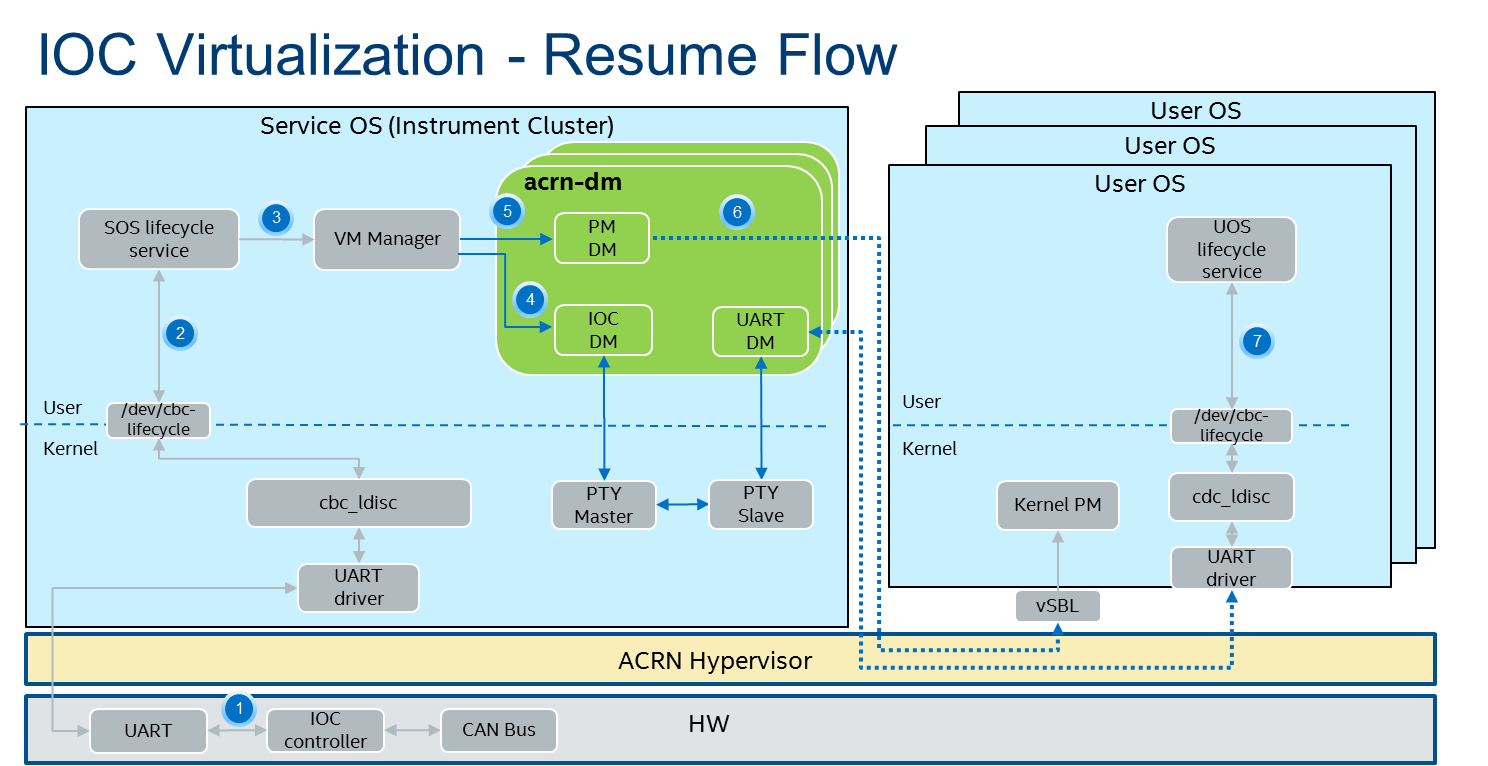
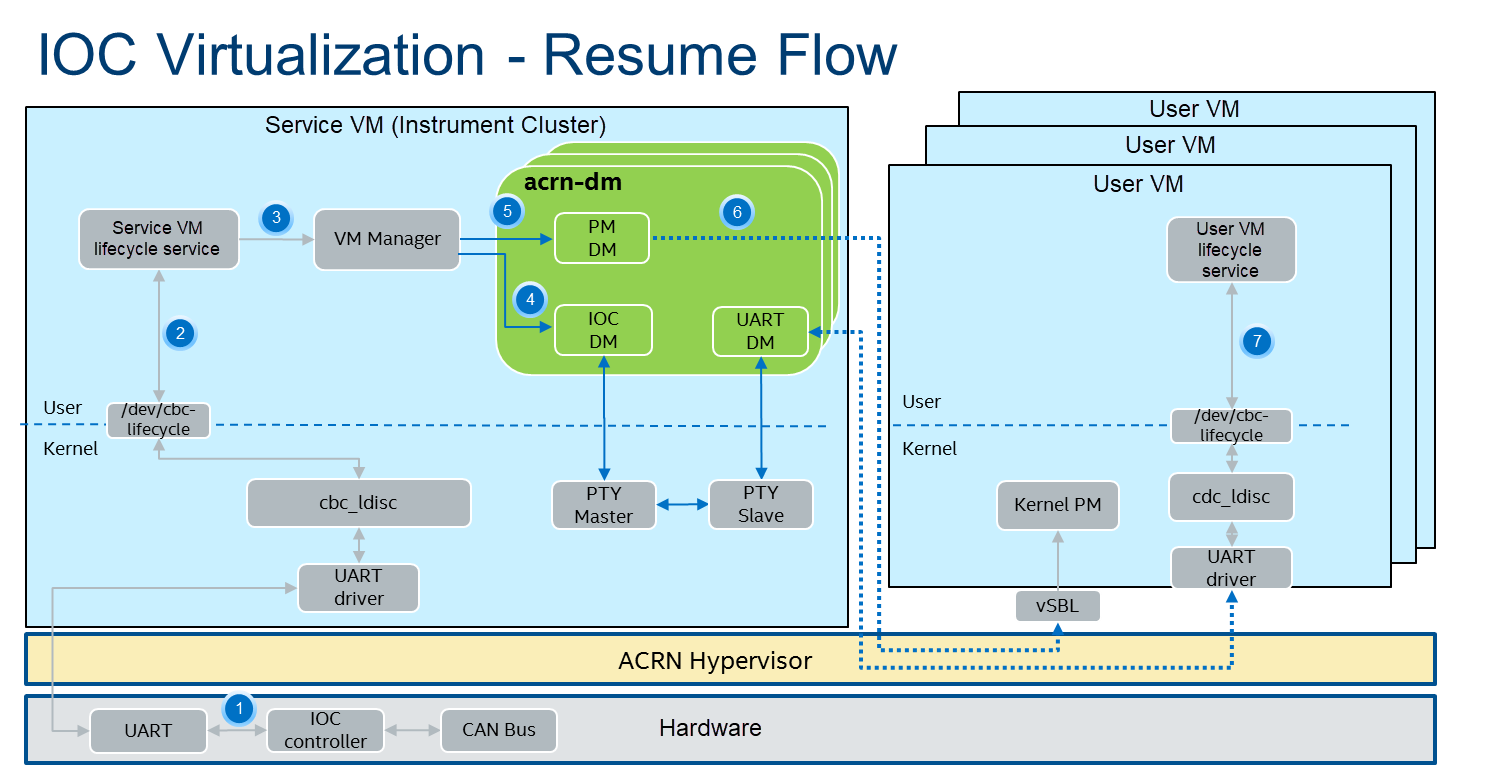
doc: terminology cleanup in IOC virt
- Replace SOS or Service OS with Service VM
- Replace UOS or User OS with User VM
- Clean up some of the grammar

diff --git a/doc/developer-guides/hld/hv-ioc-virt.rst b/doc/developer-guides/hld/hv-ioc-virt.rst
@@ -19,7 +19,7 @@ peripherals.
 The main purpose of IOC virtualization is to transfer data between
 native Carrier Board Communication (CBC) char devices and a virtual
 UART. IOC virtualization is implemented as full virtualization so the
-user OS can directly reuse native CBC driver.
+User VM can directly reuse the native CBC driver.
 
 The IOC Mediator has several virtualization requirements, such as S3/S5
 wakeup reason emulation, CBC link frame packing/unpacking, signal
@@ -72,14 +72,14 @@ different serial connections, such as SPI or UART.
    :align: center
    :name: ioc-cbc-frame-def
 
-   IOC Native - CBC frame definition
+   IOC Native - CBC Frame Definition
 
 The CBC protocol is based on a four-layer system:
 
--  The **Physical layer** is a serial interface with full
+-  The **Physical Layer** is a serial interface with full
    duplex capabilities. A hardware handshake is required. The required
-   bit rate depends on the peripherals connected, e.g. UART, and SPI.
--  The **Link layer** handles the length and payload verification.
+   bit rate depends on the peripherals connected, e.g., UART and SPI.
+-  The **Link Layer** handles the length and payload verification.
 -  The **Address Layer** is used to distinguish between the general data
    transferred. It is placed in front of the underlying Service Layer
    and contains Multiplexer (MUX) and Priority fields.
@@ -100,7 +100,7 @@ devices.
    :align: center
    :name: ioc-software-arch
 
-   IOC Native - Software architecture
+   IOC Native - Software Architecture
 
 Virtualization Architecture
 ---------------------------
@@ -120,7 +120,7 @@ device as its backend.
    :align: center
    :name: ioc-virt-software-arch
 
-   IOC Virtualization - Software architecture
+   IOC Virtualization - Software Architecture
 
 High-Level Design
 =================
@@ -131,7 +131,7 @@ There are five parts in this high-level design:
 * State transfer introduces IOC mediator work states
 * CBC protocol illustrates the CBC data packing/unpacking
 * Power management involves boot/resume/suspend/shutdown flows
-* Emulated CBC commands introduces some commands workflow
+* Emulated CBC commands introduce some commands workflow
 
 IOC mediator has three threads to transfer data between User VM and Service VM. The
 core thread is responsible for data reception, and Tx and Rx threads are
@@ -144,7 +144,7 @@ char devices and UART DM immediately.
    :align: center
    :name: ioc-med-sw-data-flow
 
-   IOC Mediator - Software data flow
+   IOC Mediator - Software Data Flow
 
 -  For Tx direction, the data comes from IOC firmware. IOC mediator
    receives service data from native CBC char devices such as
@@ -161,7 +161,7 @@ char devices and UART DM immediately.
    mediator and will not be transferred to IOC
    firmware.
 -  Currently, IOC mediator only cares about lifecycle, signal, and raw data.
-   Others, e.g. diagnosis, are not used by the IOC mediator.
+   Others, e.g., diagnosis, are not used by the IOC mediator.
 
 State Transfer
 --------------
@@ -201,7 +201,7 @@ virtualization, as shown in the detailed flow below:
    :align: center
    :name: ioc-cbc-frame-usage
 
-   IOC Native - CBC frame usage
+   IOC Native - CBC Frame Usage
 
 In the native architecture, the CBC link frame is unpacked by CBC
 driver. The usage services only get the service data from the CBC char
@@ -213,7 +213,7 @@ priority for the frame, then send data to the UART driver.
    :align: center
    :name: ioc-cbc-prot
 
-   IOC Virtualizaton - CBC protocol virtualization
+   IOC Virtualizaton - CBC Protocol Virtualization
 
 The difference between the native and virtualization architectures is
 that the IOC mediator needs to re-compute the checksum and reset
@@ -240,7 +240,7 @@ Boot Flow
    :align: center
    :name: ioc-virt-boot
 
-   IOC Virtualizaton - Boot flow
+   IOC Virtualizaton - Boot Flow
 
 #. Press ignition button for booting.
 #. Service VM lifecycle service gets a "booting" wakeup reason.
@@ -275,7 +275,7 @@ Suspend & Shutdown Flow
 #. PM DM executes User VM suspend/shutdown request based on ACPI.
 #. VM Manager queries each VM state from PM DM. Suspend request maps
    to a paused state and shutdown request maps to a stop state.
-#. VM Manager collects all VMs state, and reports it to Service VM lifecycle
+#. VM Manager collects all VMs' state, and reports it to Service VM lifecycle
    service.
 #. Service VM lifecycle sends inactive heartbeat to IOC firmware with
    suspend/shutdown SUS_STAT, based on the Service VM's own lifecycle service
@@ -289,9 +289,9 @@ Resume Flow
    :align: center
    :name: ioc-resume
 
-   IOC Virtualizaton - Resume flow
+   IOC Virtualizaton - Resume Flow
 
-The resume reason contains both the ignition button and RTC, and have
+The resume reason contains both the ignition button and RTC, and has
 the same flow blocks.
 
 For ignition resume flow:
@@ -324,7 +324,7 @@ For RTC resume flow
 #. PM DM resumes User VM.
 #. User VM lifecycle service gets the wakeup reason 0x000200, and sends
    initial or active heartbeat. The User VM gets wakeup reason 0x800200
-   after resuming..
+   after resuming.
 
 System Control Data
 -------------------
@@ -338,7 +338,7 @@ control includes Wakeup Reasons, Heartbeat, Boot Selector, Suppress
 Heartbeat Check, and Set Wakeup Timer functions. Details are in this
 table:
 
-.. list-table:: System control SVC values
+.. list-table:: System Control SVC Values
    :header-rows: 1
 
    * - System Control
@@ -354,22 +354,22 @@ table:
    * - 2
      - Heartbeat
      - Heartbeat
-     - Soc to IOC
+     - SoC to IOC
 
    * - 3
      - Boot Selector
      - Boot Selector
-     - Soc to IOC
+     - SoC to IOC
 
    * - 4
      - Suppress Heartbeat Check
      - Suppress Heartbeat Check
-     - Soc to IOC
+     - SoC to IOC
 
    * - 5
      - Set Wakeup Timer
      - Set Wakeup Timer in AIOC firmware
-     - Soc to IOC
+     - SoC to IOC
 
 -  IOC mediator only supports wakeup reasons Heartbeat and Set Wakeup
    Timer.
@@ -413,21 +413,21 @@ Currently the wakeup reason bits are supported by sources shown here:
 
    * - wakeup_button
      - 5
-     - Get from IOC FW, forward to User VM
+     - Get from IOC firmware, forward to User VM
 
    * - RTC wakeup
      - 9
-     - Get from IOC FW, forward to User VM
+     - Get from IOC firmware, forward to User VM
 
-   * - car door wakeup
+   * - Car door wakeup
      - 11
-     - Get from IOC FW, forward to User VM
+     - Get from IOC firmware, forward to User VM
 
    * - SoC wakeup
      - 23
      - Emulation (Depends on User VM's heartbeat message
 
--  CBC_WK_RSN_BTN (bit 5): ignition button.
+-  CBC_WK_RSN_BTN (bit 5): Ignition button.
 -  CBC_WK_RSN_RTC (bit 9): RTC timer.
 -  CBC_WK_RSN_DOR (bit 11): Car door.
 -  CBC_WK_RSN_SOC (bit 23): SoC active/inactive.
@@ -437,7 +437,7 @@ Currently the wakeup reason bits are supported by sources shown here:
    :align: center
    :name: ioc-wakeup-flow
 
-   IOC Mediator - Wakeup reason flow
+   IOC Mediator - Wakeup Reason Flow
 
 Bit 23 is for the SoC wakeup indicator and should not be forwarded
 directly because every VM has a different heartbeat status.
@@ -445,7 +445,7 @@ directly because every VM has a different heartbeat status.
 Heartbeat
 +++++++++
 
-The Heartbeat is used for SOC watchdog, indicating the SOC power
+The Heartbeat is used for SoC watchdog, indicating the SoC power
 reset behavior. Heartbeat needs to be sent every 1000 ms by
 the SoC.
 
@@ -454,7 +454,7 @@ the SoC.
    :align: center
    :name: ioc-heartbeat
 
-   System control - Heartbeat
+   System Control - Heartbeat
 
 Heartbeat frame definition is shown here:
 
@@ -513,7 +513,7 @@ Heartbeat frame definition is shown here:
 RTC
 +++
 
-RTC timer is used to wakeup SoC when the timer is expired. (A use
+RTC timer is used to wake up the SoC when the timer is expired. (A use
 case is for an automatic software upgrade with a specific time.) RTC frame
 definition is as below.
 
@@ -530,16 +530,16 @@ definition is as below.
    :align: center
    :name: ioc-rtc-flow
 
-   IOC Mediator - RTC flow
+   IOC Mediator - RTC Flow
 
 Signal Data
 -----------
 
-Signal channel is an API between the SOC and IOC for
+Signal channel is an API between the SoC and IOC for
 miscellaneous requirements. The process data includes all vehicle bus and
 carrier board data (GPIO, sensors, and so on). It supports
 transportation of single signals and group signals. Each signal consists
-of a signal ID (reference), its value, and its length. IOC and SOC need
+of a signal ID (reference), its value, and its length. IOC and SoC need
 agreement on the definition of signal IDs that can be treated as API
 interface definitions.
 
@@ -550,24 +550,24 @@ IOC signal type definitions are as below.
    :align: center
    :name: ioc-process-data-svc-val
 
-   Process Data SVC values
+   Process Data SVC Values
 
 .. figure:: images/ioc-image2.png
    :width: 900px
    :align: center
    :name: ioc-med-signal-flow
 
-   IOC Mediator - Signal flow
+   IOC Mediator - Signal Flow
 
 -  The IOC backend needs to emulate the channel open/reset/close message which
-   shouldn't be forward to the native cbc signal channel. The Service VM signal
-   related services should do a real open/reset/close signal channel.
+   shouldn't be forwarded to the native cbc signal channel. The Service VM
+   signal related services should do a real open/reset/close signal channel.
 -  Every backend should maintain a passlist for different VMs. The
    passlist can be stored in the Service VM file system (Read only) in the
    future, but currently it is hard coded.
 
 IOC mediator has two passlist tables, one is used for rx
-signals(SOC->IOC), and the other one is used for tx signals. The IOC
+signals (SoC->IOC), and the other one is used for tx signals. The IOC
 mediator drops the single signals and group signals if the signals are
 not defined in the passlist. For multi signal, IOC mediator generates a
 new multi signal, which contains the signals in the passlist.
@@ -577,37 +577,37 @@ new multi signal, which contains the signals in the passlist.
    :align: center
    :name: ioc-med-multi-signal
 
-   IOC Mediator - Multi-Signal passlist
+   IOC Mediator - Multi-Signal Passlist
 
 Raw Data
 --------
 
 OEM raw channel only assigns to a specific User VM following that OEM
 configuration. The IOC Mediator will directly forward all read/write
-message from IOC firmware to User VM without any modification.
+messages from IOC firmware to the User VM without any modification.
 
 
 IOC Mediator Usage
 ******************
 
-The device model configuration command syntax for IOC mediator is as
+The Device Model configuration command syntax for IOC mediator is as
 follows::
 
    -i,[ioc_channel_path],[wakeup_reason]
    -l,[lpc_port],[ioc_channel_path]
 
-The "ioc_channel_path" is an absolute path for communication between
+The ``ioc_channel_path`` is an absolute path for communication between
 IOC mediator and UART DM.
 
-The "lpc_port" is "com1" or "com2", IOC mediator needs one unassigned
+The ``lpc_port`` is ``com1`` or ``com2``. IOC mediator needs one unassigned
 lpc port for data transfer between User VM and Service VM.
 
-The "wakeup_reason" is IOC mediator boot reason, each bit represents
+The ``wakeup_reason`` is the IOC mediator boot reason. Each bit represents
 one wakeup reason.
 
-For example, the following commands are used to enable IOC feature, the
+For example, the following commands are used to enable the IOC feature. The
 initial wakeup reason is the ignition button and cbc_attach uses ttyS1
-for TTY line discipline in User VM::
+for TTY line discipline in the User VM::
 
    -i /run/acrn/ioc_$vm_name,0x20
    -l com2,/run/acrn/ioc_$vm_name
